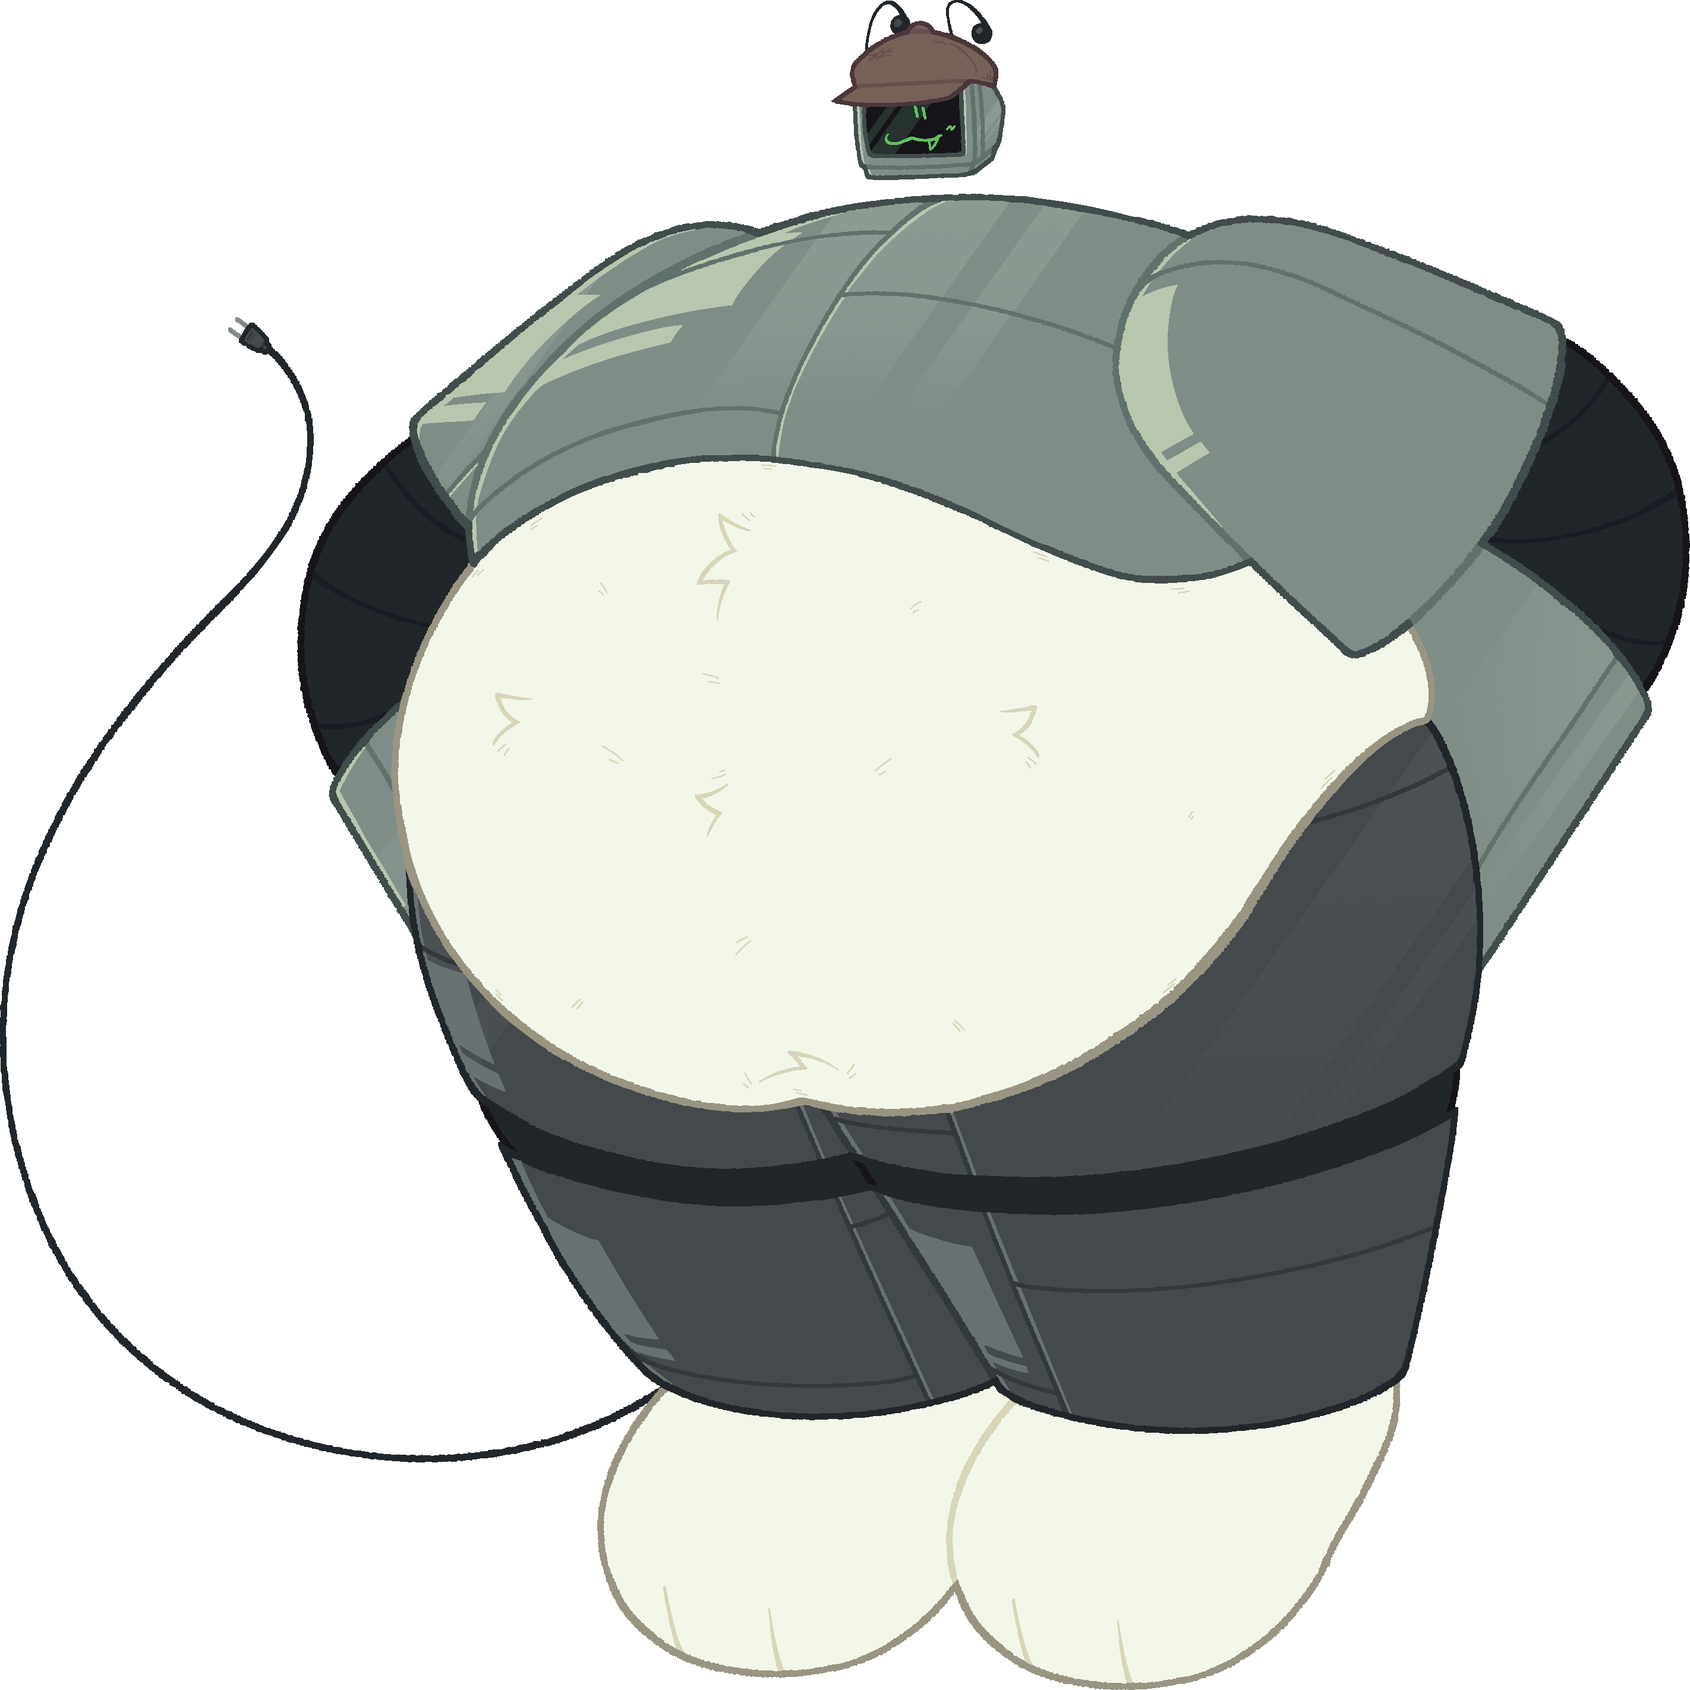
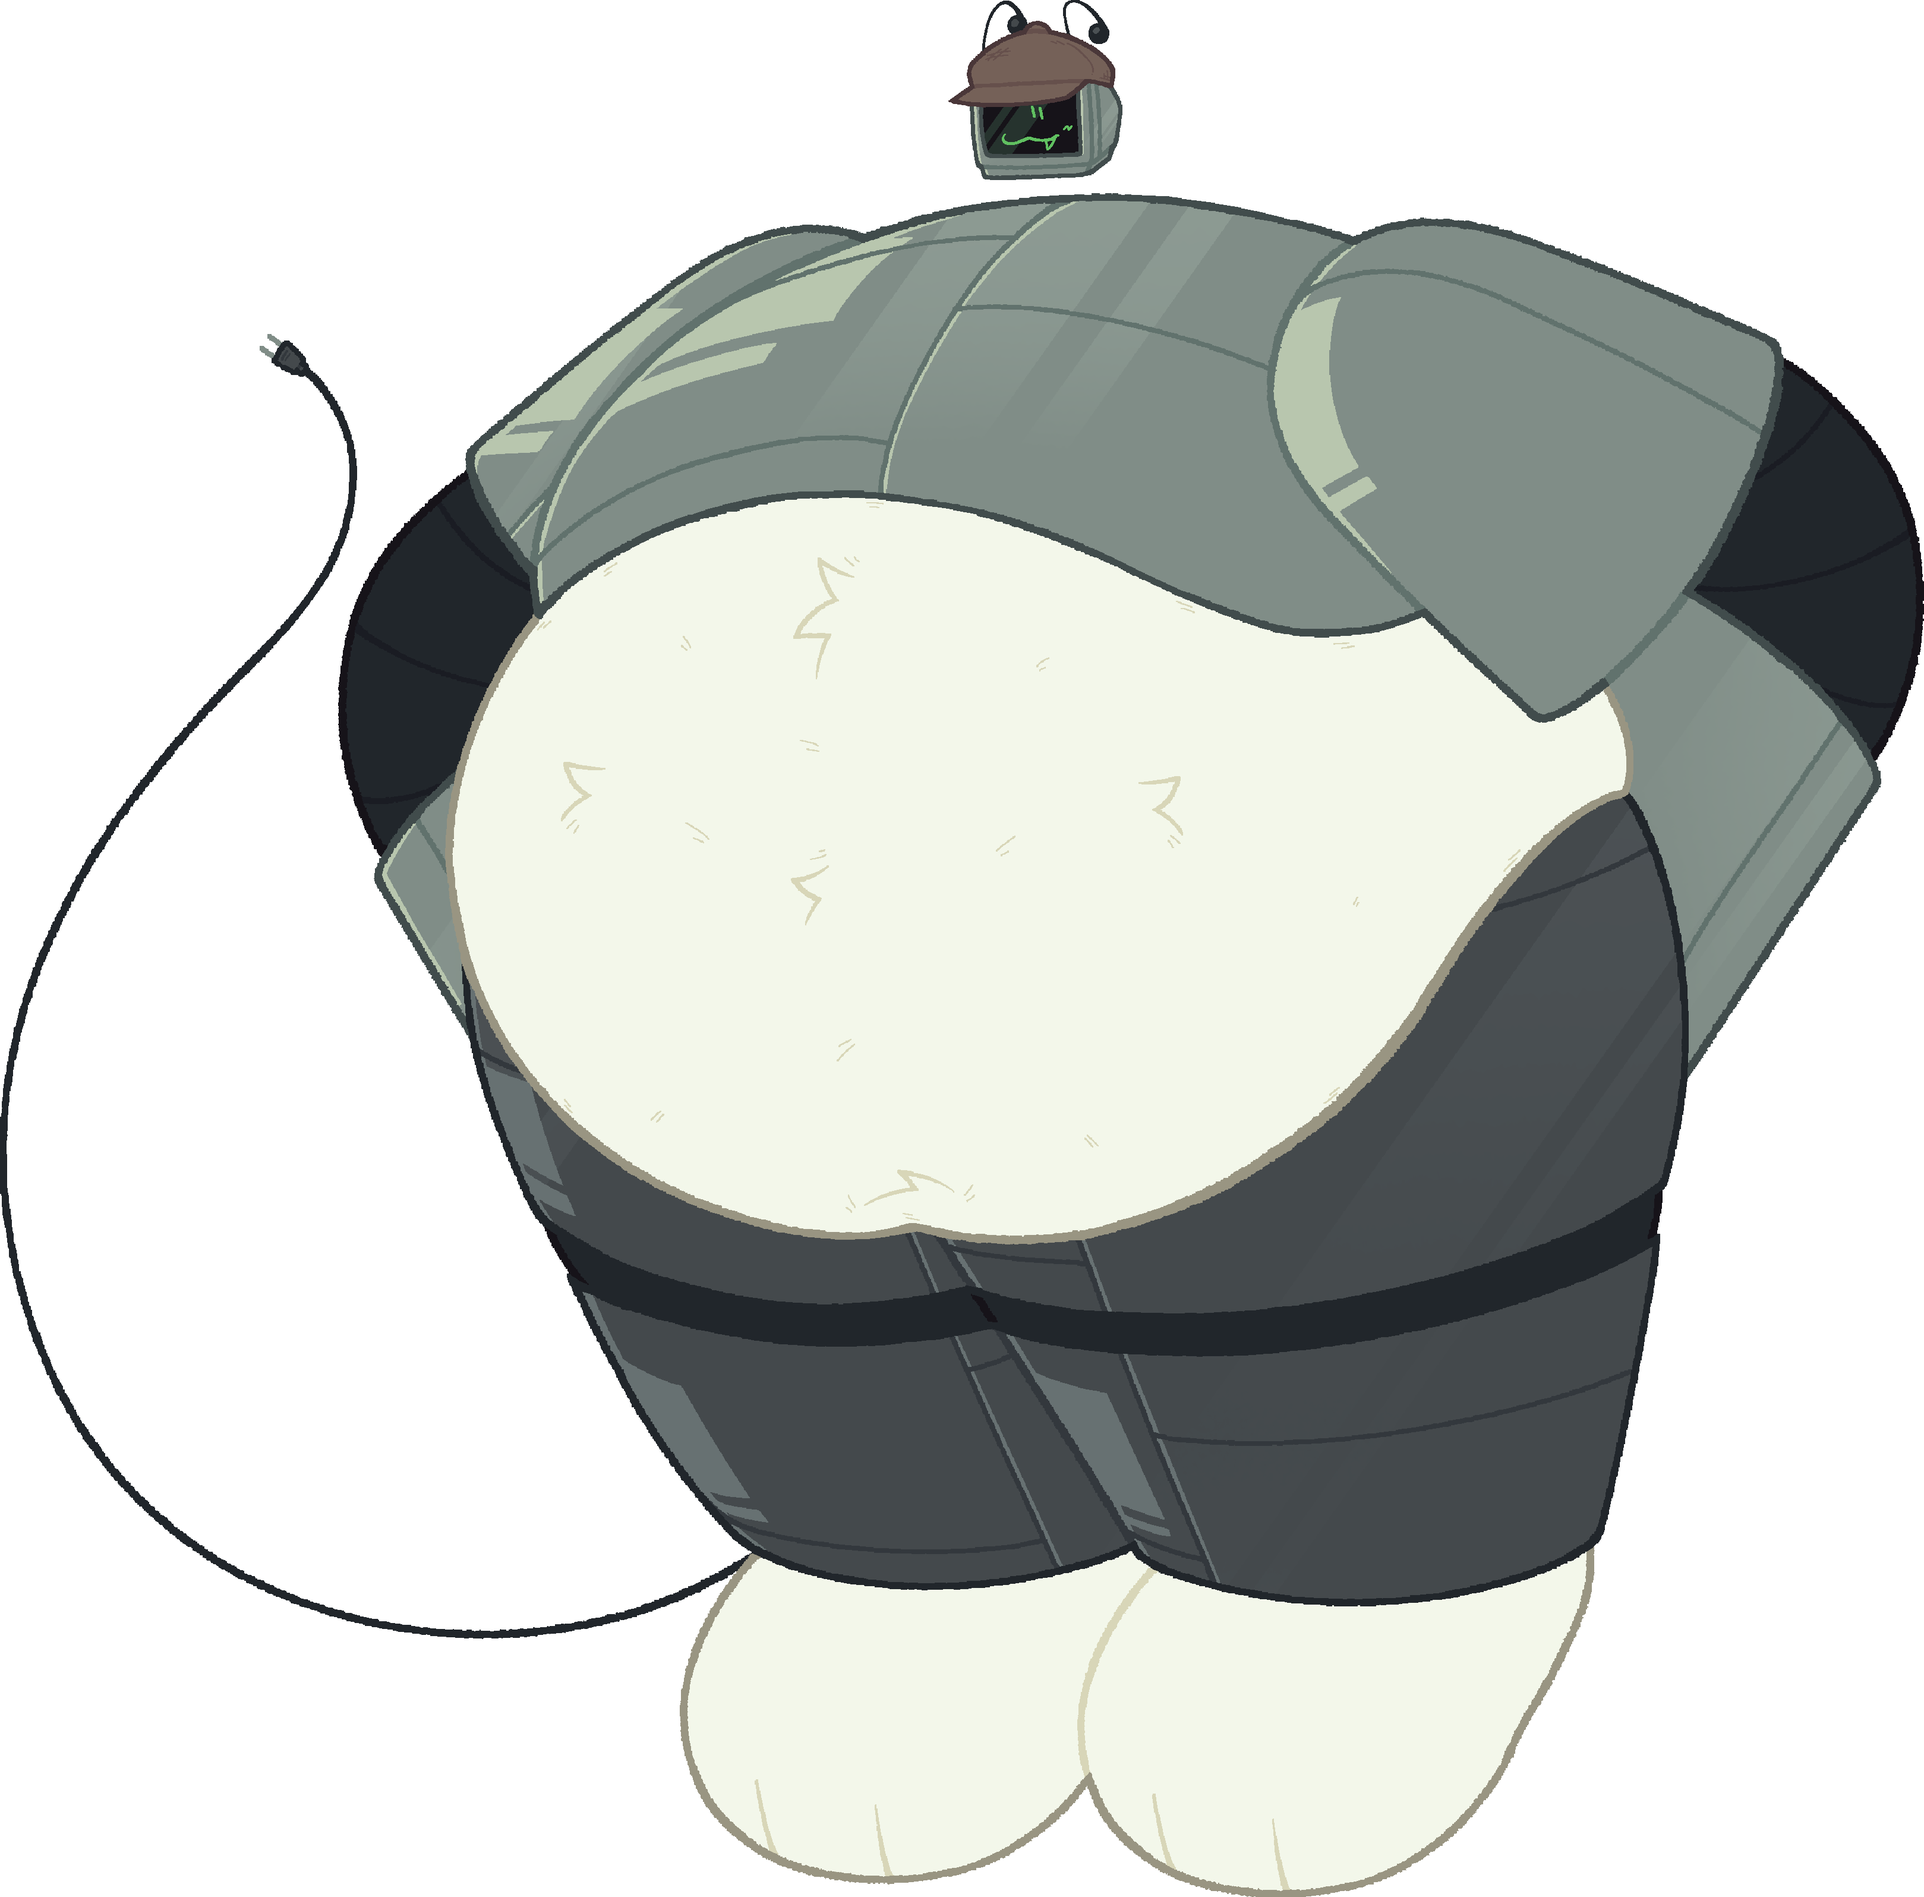
yeah

diff --git a/characters/circuit/index.html b/characters/circuit/index.html
@@ -31,10 +31,11 @@
 
                 <p><i>ageless (b. june 24), he/him<br>
                 panromantic, asexual<br>
-                robot, 10'6"</i>
+                robot, 12'0"</i>
                 <br><br>
-                his screen can display anything<br>
-                his tail is also a charger
+                circuit is very gentle and shy, not good at interaction<br>
+                he's usually seen as intimidating<br>
+                his tail is also a charger that can extend to his height and can be removed
                 <br><br>
                 <p>[<a href="./sheet.png"><i>view reference sheet</i></a>]</p>
             </div>
